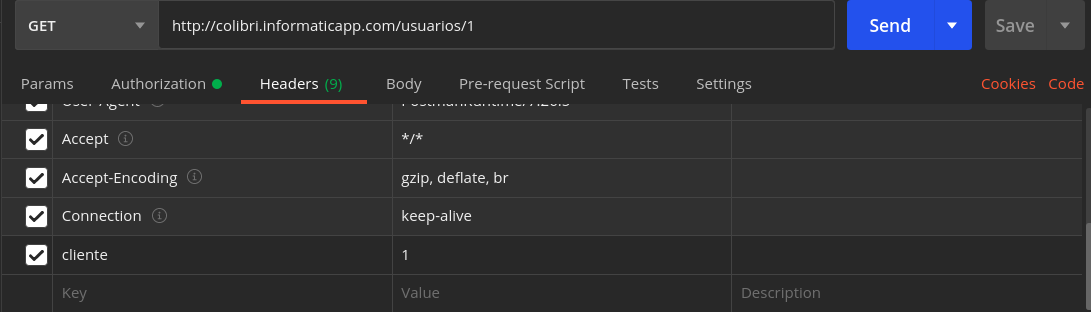
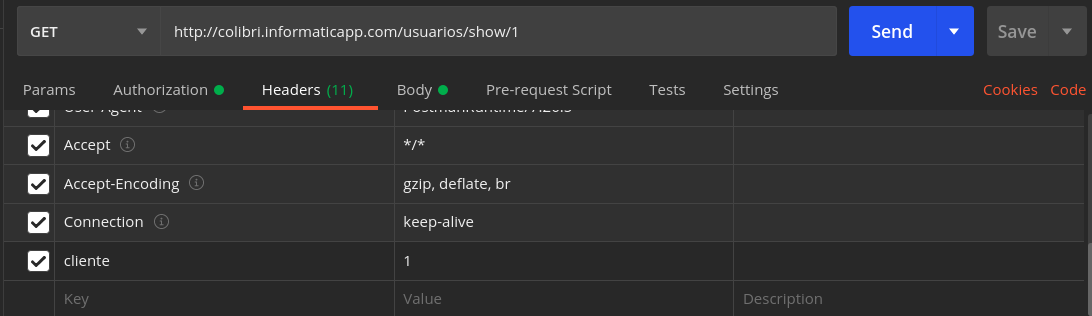
Doc usuarios

diff --git a/app/Views/principal/documentacion/mantenimiento/secciones.php b/app/Views/principal/documentacion/mantenimiento/secciones.php
@@ -1,2 +1,55 @@
 <main role="main" class="col-md-9 ml-sm-auto col-lg-10 px-md-4 " style="font-family: monospace;">
-	<p></p>
+	<p>
+    Esta sección contiene la informaciónde la gestión de secciones, el cual se puede acceder a través del POSTMAN en la siguiente dirección:
+    <p><img src="<?= base_url().'/public/documentacion/mantenimiento/secciones/direccion.jpg'; ?>"> </p>
+    Cabe mencionar que es necesario que obtengas el token de seguridad para tener acceso a todos los recursos, si todav&iacute;a no cuentas con uno, puedes solicitarlo aqu&iacute;
+
+    </p>
+
+    <h2> Método GET</h2>
+
+    <p> A través de este método usted podrá solicitar información de los secciones que tiene un cliente determinado, se debe rellenar
+	un campo más en la cabecera (headers) con el nombre de "cliente", esto representa el id (en este caso 1) del cliente del cual se desea obtener su lista de secciones registradas
+    </p>
+    <p><img src="<?= base_url().'/public/documentacion/mantenimiento/secciones/get.jpg'; ?>"> </p>
+    
+    <h3> Resultado del m&eacute;todo GET </h3>
+    <p> Usted debe obtener un resultado como este </p>
+    <p><img src="<?= base_url().'/public/documentacion/mantenimiento/secciones/resultado-get.jpg'; ?>"> </p>
+
+    
+    <h3> M&eacute;todo GET - SHOW </h3>
+
+    <p> A través de este método usted podr&aacute; solicitar informaci&oacute;n de una sección en especif&iacute;co de un cliente determinado, se debe rellenar
+	un campo m&aacute;s en la cabecera (headers) con el nombre de "cliente", esto representa el id (en este caso 1) del cliente del cual se desea obtener la sección.
+    </p>
+    <p><img src="<?= base_url().'/public/documentacion/mantenimiento/secciones/show.jpg'; ?>"> </p>
+    <h3> Resultado del m&eacute;todo GET - SHOW </h3>
+    <p> Usted debe obtener un resultado como este </p>
+    <p><img src="<?= base_url().'/public/documentacion/mantenimiento/secciones/resultado-show.jpg'; ?>"> </p>
+
+
+    <h2> M&eacute;todo POST</h2>
+
+    <p> A trav&eacute;s de este m&eacute;todo usted podr&aacute; registrar informaci&oacute;n de una sección de un cliente determinado, se debe rellenar
+	un campo m&aacute;s en la cabecera (headers) con el nombre de "cliente", esto representa el id (en este caso 1) del cliente en el cual se crear&aacute; el usuario
+    </p>
+    <p><img src="<?= base_url().'/public/documentacion/mantenimiento/secciones/post.jpg'; ?>"> </p>
+    <h2> Resultado del Método POST</h2>
+    <p>El resultado del envío de una sección en particular debería ser como se muestra en la siguiente imagen:</p>
+    <p><img src="<?= base_url().'/public/documentacion/mantenimiento/secciones/resultado-post.jpg'; ?>"> </p>
+
+    <h2> Método PUT</h2>
+    <p>A través de este método puede actualizar información de una sección en particular, para solicitar esta información se debe  rellenar  un campo más en la cabecera (headers) con el nombre de "cliente", esto representa el id (en este caso 1) del cliente en el cual se actualizará la sección y también debe hacerlo a trávés de la siguiente dirección:</p>
+    <p><img src="<?= base_url().'/public/documentacion/mantenimiento/secciones/put.jpg'; ?>"> </p>
+    <h2> Resultado del Método PUT</h2>
+    <p>El resultado de la actualización de una sección en particular debería ser como se muestra en la siguiente imagen:</p>
+    <p><img src="<?= base_url().'/public/documentacion/mantenimiento/secciones/resultado-put.jpg'; ?>"> </p>
+    <h2> Método DELETE</h2>
+    <p>A través de este método puede eliminar información de una sección en particular, para solicitar esta información se debe  rellenar  un campo más en la cabecera (headers) con el nombre de "cliente", esto representa el id (en este caso 1) del cliente en el cual se eliminará la sección y también debe hacerlo a trávés de la siguiente dirección:</p>
+    <p><img src="<?= base_url().'/public/documentacion/mantenimiento/secciones/delete.jpg'; ?>"> </p>
+    <h2> Resultado del Método PUT</h2>
+    <p>El resultado de la actualización de una sección en particular debería ser como se muestra en la siguiente imagen:</p>
+    <p><img src="<?= base_url().'/public/documentacion/mantenimiento/secciones/resultado-delete.jpg'; ?>"> </p>
+
+</main>

diff --git a/app/Views/principal/documentacion/seguridad/usuarios.php b/app/Views/principal/documentacion/seguridad/usuarios.php
@@ -1,11 +1,11 @@
-<main role="main" class="col-md-9 ml-sm-auto col-lg-10 px-md-4 " style="font-family: monospace;">
+<main role="main" class="col-md-9 ml-sm-auto col-lg-10 px-md-4 " style="font-family: Arial; font-size: 18px">
     <p>
     Esta secci&oacute;n contiene la informaci&oacute;n de la gesti&oacute;n de usuarios, el cual se puede acceder a trav&eacute;s del POSTMAN en la siguiente direcci&oacute;n:
     Cabe mencionar que es necesario que obtengas el token de seguridad para tener acceso a todos los recursos, si todav&iacute;a no cuentas con uno, puedes solicitarlo aqu&iacute;
     </p>
 
-    <h2> M&eacute;todo GET</h2>
 
+    <h2> M&eacute;todo GET</h2>
     <p> A trav&eacute;s de este m&eacute;todo usted podr&aacute; solicitar informaci&oacute;n de los usuarios de un cliente determinado, se debe rellenar
 	un campo m&aacute;s en la cabecera (headers) con el nombre de "cliente", esto representa el id (en este caso 1) del cliente del cual se desea obtener su lista de usuarios registrados
     </p>
@@ -24,15 +24,26 @@
     <p><img src="<?= base_url().'/public/documentacion/seguridad/usuarios/get_show.png'; ?>"> </p>
     <h3> Resultado del m&eacute;todo GET - SHOW </h3>
     <p> Usted debe obtener un resultado como este </p>
-    <p><img src="<?= base_url().'/public/documentacion/seguridad/usuarios/resultado_get.png'; ?>"> </p>
+    <p><img src="<?= base_url().'/public/documentacion/seguridad/usuarios/resultado_get_show.png'; ?>"> </p>
 
 
     <h2> M&eacute;todo POST</h2>
-
-    <p> A trav&eacute;s de este m&eacute;todo usted podr&aacute; registrar informaci&oacute;n de un usuario de un cliente determinado, se debe rellenar
-	un campo m&aacute;s en la cabecera (headers) con el nombre de "cliente", esto representa el id (en este caso 1) del cliente en el cual se crear&aacute; el usuario
+    <p> A trav&eacute;s de este m&eacute;todo usted podr&aacute; registrar la informaci&oacute;n de un usuario de un cliente determinado, en este caso tendrá que
+	especificar el cliente en el campo del body de POSTMAN.
     </p>
     <p><img src="<?= base_url().'/public/documentacion/seguridad/usuarios/post.png'; ?>"> </p>
+
+    <h2> Método PUT </h2>
+    <p> A trav&eacute;s de este m&eacute;todo usted podr&aacute; editar la informaci&oacute;n de un usuario de un cliente determinado, en este caso tendrá que
+	especificar el cliente en el campo del body de POSTMAN.
+    </p>
+    <p><img src="<?= base_url().'/public/documentacion/seguridad/usuarios/put.png'; ?>"> </p>
+    
+    <h2> Método DELETE </h2>
+    <p> A trav&eacute;s de este m&eacute;todo usted podr&aacute; eliminar la informaci&oacute;n de un usuario de un cliente determinado, en este caso tendrá que
+	especificar el cliente en el campo del body de POSTMAN.
+    </p>
+    <p><img src="<?= base_url().'/public/documentacion/seguridad/usuarios/delete.png'; ?>"> </p>
 
 
 </main>
